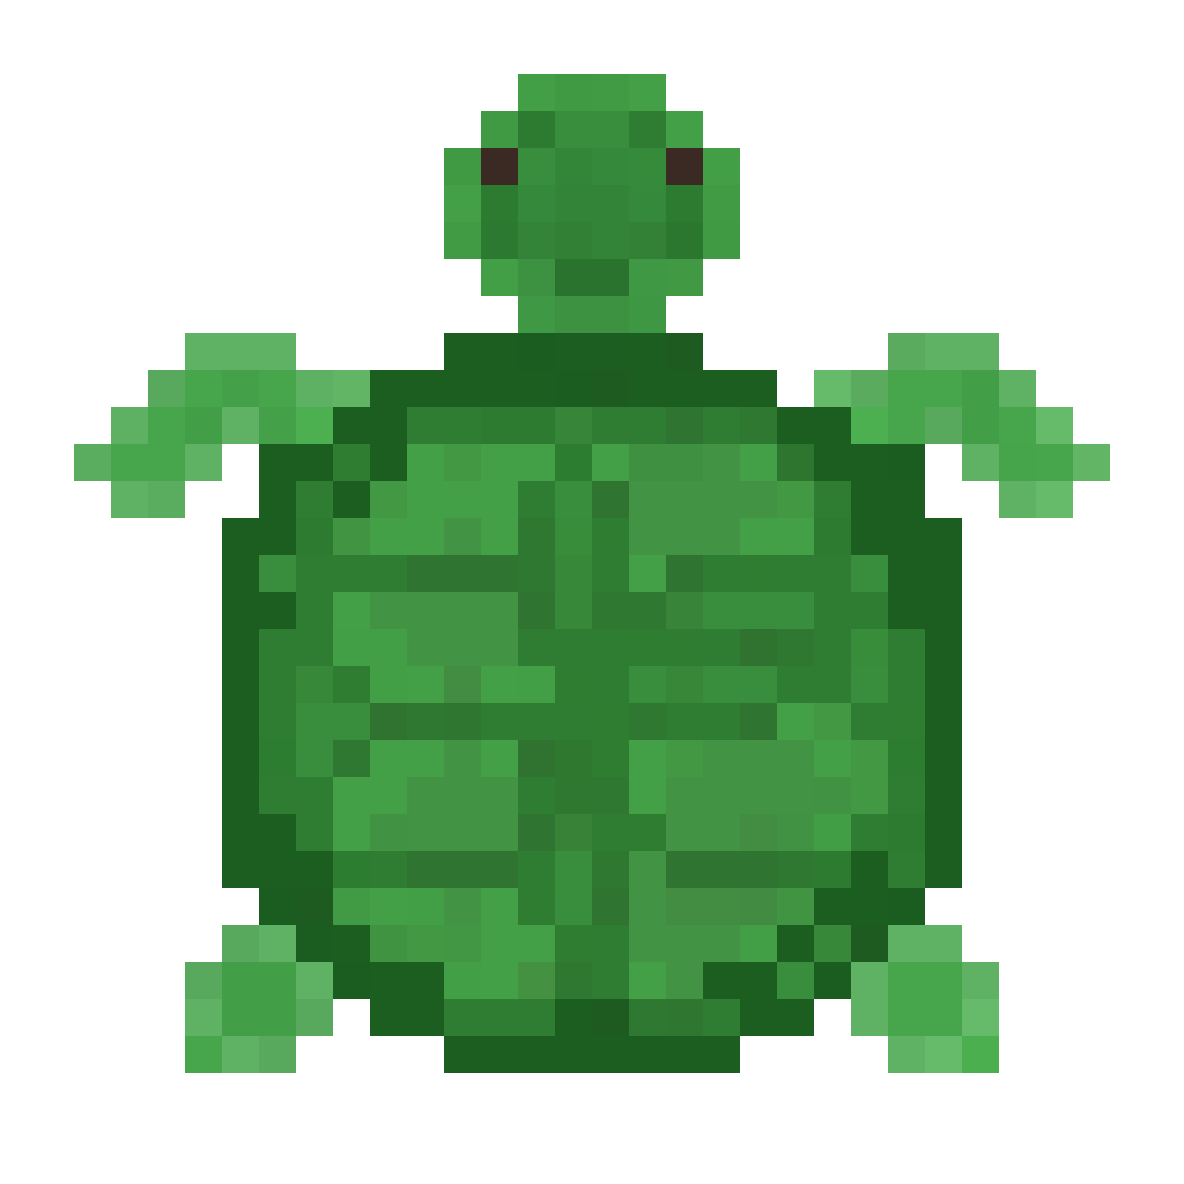
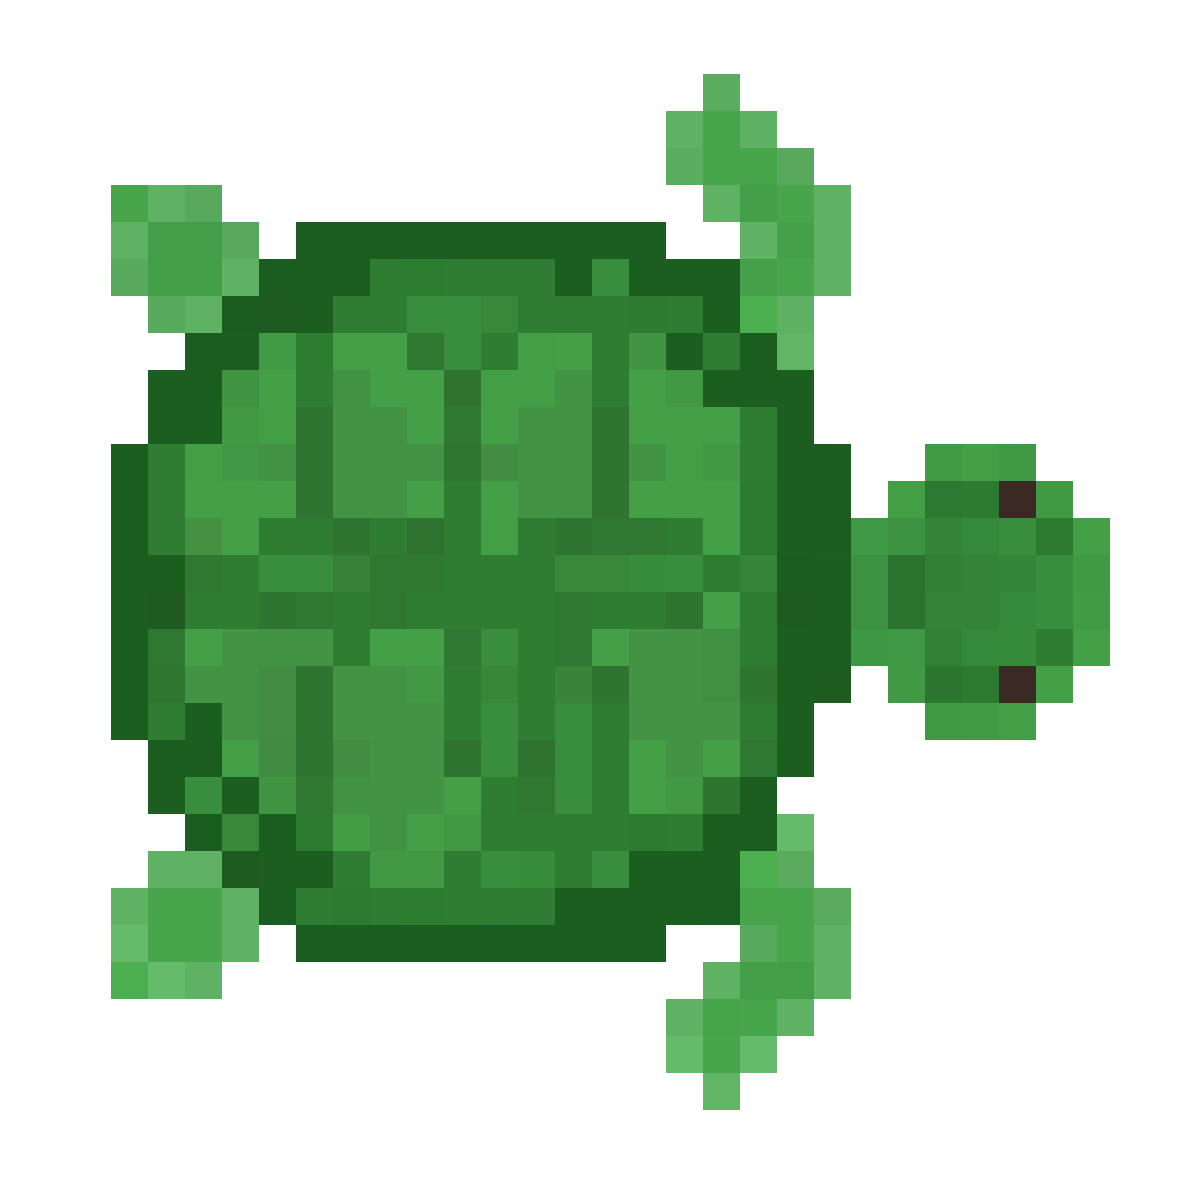
new material

diff --git a/js/sprite.js b/js/sprite.js
@@ -1,18 +1,18 @@
 class Sprite
 {
-	constructor(x, y, imageID)
+	constructor(x, y)
 	{
 		// The starting point of the Sprite on the canvas in x and y coordinates.
 		this.x = x;
 		this.y = y;
 
-		// This Sprite's imageID (the ID each image is given when imported at the top of the main HTML file).
-		this.image = document.getElementById(imageID);
+		// store image-related data
+		this.texture = null;
 
-		// starting angle
+		// starting angle, measured in degrees
 		this.angle = 0;
 
-		// -Default Size Values- (width, height)
+		// size to draw texture (width, height)
 		this.w = 32;
 		this.h = 32;
 
@@ -30,6 +30,11 @@ class Sprite
 		// These variables store the worldSize for later use.
 		this.worldWidth = 512;
 		this.worldHeight = 512;
+	}
+
+	setTexture(tex)
+	{
+		this.texture = tex;
 	}
 
 	setSize(w, h)
@@ -71,6 +76,16 @@ class Sprite
 		this.doesBound = true;
 	}
 
+	moveDistanceAtAngle(distance, angle)
+	{
+		// convert angle from degrees to radians
+		let A = angle * Math.PI / 180;
+		this.x += distance * Math.cos(A);
+		this.y += distance * Math.sin(A);
+	}
+
+	// TODO: (x,y) now refers to center of image. Need to update bounce,wrap,bound.
+
 	bounce()
 	{
 		// The following code accounts for Sprites bouncing against the canvas walls.
@@ -89,8 +104,10 @@ class Sprite
 		// Although it would be simpler to teleport the spirte to the other side,
 		// moving it by the world size accounts for the distanced traveled over the side of the canvas.
 		// this makes it travel an accurate (canvas size + (width/height)*2).
-		if (this.x + this.w < 0)
-			this.x = (this.worldWidth + this.w) + this.x;
+		
+		// right edge of sprite moves past left edge of screen
+		if (this.x + this.w/2 < 0)
+			this.x = (this.worldWidth + this.w/2) + this.x;
 		
 		if (this.x > this.worldWidth)
 			this.x = this.x - (this.worldWidth + this.w);
@@ -139,10 +156,10 @@ class Sprite
 	// (or empty space) between the two in any linear direction.
 	overlaps(otherSprite)
 	{
-		let noOverlap = this.x > otherSprite.x + otherSprite.w ||
-						this.x + this.w < otherSprite.x ||
-						this.y > otherSprite.y + otherSprite.h ||
-						this.y + this.h < otherSprite.y;
+		let noOverlap = this.x > otherSprite.x + otherSprite.w/2 ||
+						this.x + this.w/2 < otherSprite.x ||
+						this.y > otherSprite.y + otherSprite.h/2 ||
+						this.y + this.h/2 < otherSprite.y;
 
 		// noOverlap is a boolean that stores whether or not the sprites are overlapping.
 		// Whether they are or not, it is always returned when the overlaps() function is called.
@@ -178,13 +195,14 @@ class Sprite
 		let sinA = Math.sin(A);
 
 		// transform the drawing area
-		// context.setTransform( 1,0,0,1, this.x, this.y );
 		context.setTransform( cosA,sinA, -sinA,cosA, this.x, this.y );
 
 		// image, source location/size, destination location/size
 		//context.drawImage(this.image, this.x, this.y, this.w, this.h)
-		context.drawImage(this.image, 
-			        0,         0, this.w, this.h,
-			-this.w/2, -this.h/2, this.w, this.h);
+		context.drawImage(this.texture.image, 
+			// actual size of original image
+			        0,         0, this.texture.width, this.texture.height,  
+			// size we want the image to be
+			-this.w/2, -this.h/2, this.w, this.h); 
 	}
 }

diff --git a/rotation-test.html b/rotation-test.html
@@ -6,12 +6,9 @@
 
 <script src="js/sprite.js"></script>
 <script src="js/input.js"></script>
+<script src="js/texture.js"></script>
 
 <canvas width=512 height=512 id="canvas"></canvas>
-
-<img src = "images/starfish-collector/water-background.png" id = "background" hidden>
-<img src = "images/starfish-collector/turtle2.png" id = "turtle" hidden>
-
 
 <script>
 
@@ -26,16 +23,18 @@ let context = canvas.getContext("2d");
 
 
 // Create the background image and size it to the canvas size.
-let backSprite = new Sprite(512,512, "background");
-backSprite.setSize(1000, 1000);
+let backSprite = new Sprite(256, 256, "background");
+backSprite.setTexture( 
+	new Texture("images/starfish-collector/water-background.png") ); 
+backSprite.setSize(512, 512);
 
 // Create turtleSprite, the sprite that the player will control, and set its position and velocity.
 // Also call the respective methods to specify its behavior (doesBound, doesBounce, etc.)
 let turtleSprite = new Sprite(50, 50, "turtle");
+turtleSprite.setTexture( 
+	new Texture("images/starfish-collector/turtle2.png") ); 
 turtleSprite.setSize(50, 50);
 turtleSprite.setBound(512, 512);
-
-
 
 
 // Create the array spriteArray, and push each Sprite into the array to be instantiated.
@@ -49,7 +48,7 @@ function update()
 	// Below is the code that account for the player sprite moving. (turtleSprite)
 	if ( input.isKeyPressed("ArrowUp") )
 	{
-		// turtleSprite.moveDistanceAtAngle(1, turtleSprite.angle);
+		turtleSprite.moveDistanceAtAngle(1, turtleSprite.angle);
 	}
 
 	// turn right / left

diff --git a/js/texture.js b/js/texture.js
@@ -1,0 +1,27 @@
+class Texture
+{
+	constructor(filename)
+	{
+		// creates an <img> tag, does not add it to webpage
+		this.image  = new Image();
+		this.width  = null;
+		this.height = null;
+
+		let self = this;
+
+		// this code automatically runs after image data loaded
+		this.image.onload = function()
+		{
+			self.width  = self.image.width;
+			self.height = self.image.height;
+			console.log("Image loaded, size: ", self.width, self.height);
+		}
+		this.image.src = filename;
+	}
+
+
+
+
+
+}
+
